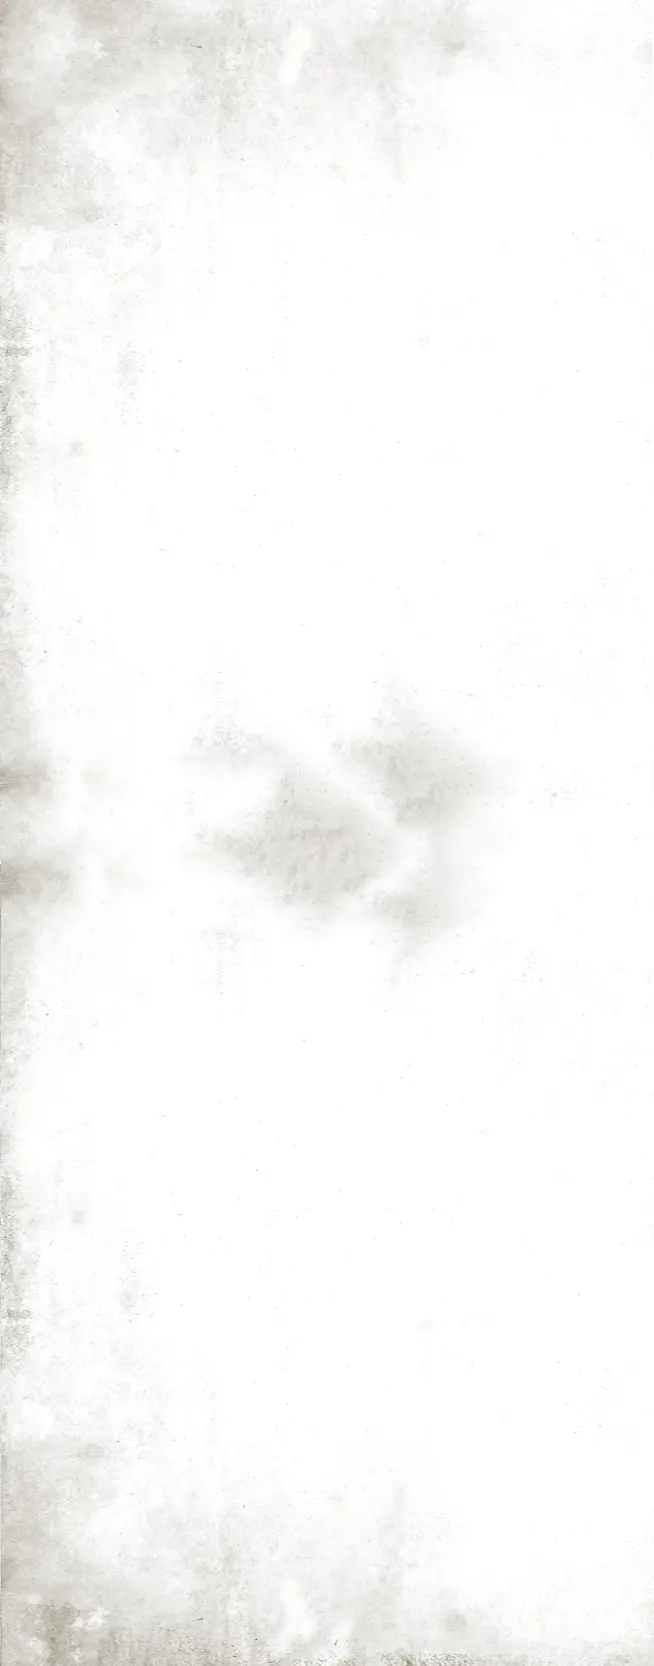
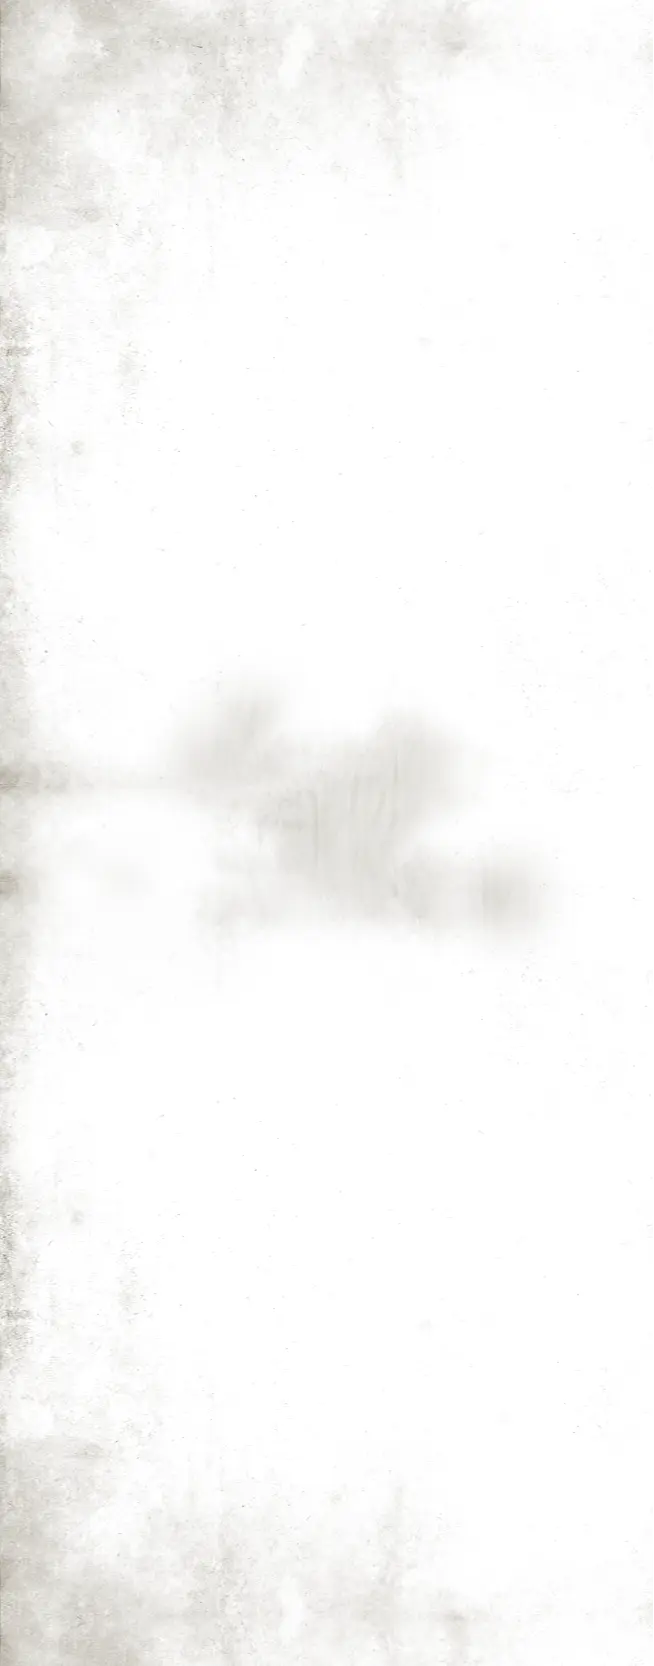
better repeating background

diff --git a/src/toc2eQuickstart.scss b/src/toc2eQuickstart.scss
@@ -22,6 +22,7 @@
   --wallpaper-transparent: #f2f1ef77;
 
   font-family: "Averia Serif", serif;
+  font-size: 1.1em;
   color: #2c2e35;
 
   h1 {
@@ -76,7 +77,7 @@
       url(/modules/toc-2e-quickstart/assets/toc2eQuickstartTheme/repeating-text-background.webp);
     background-repeat: repeat;
     // background-size: cover;
-    padding: 1em;
+    padding: 3em 3em;
     min-height: 100%;
   }
 
